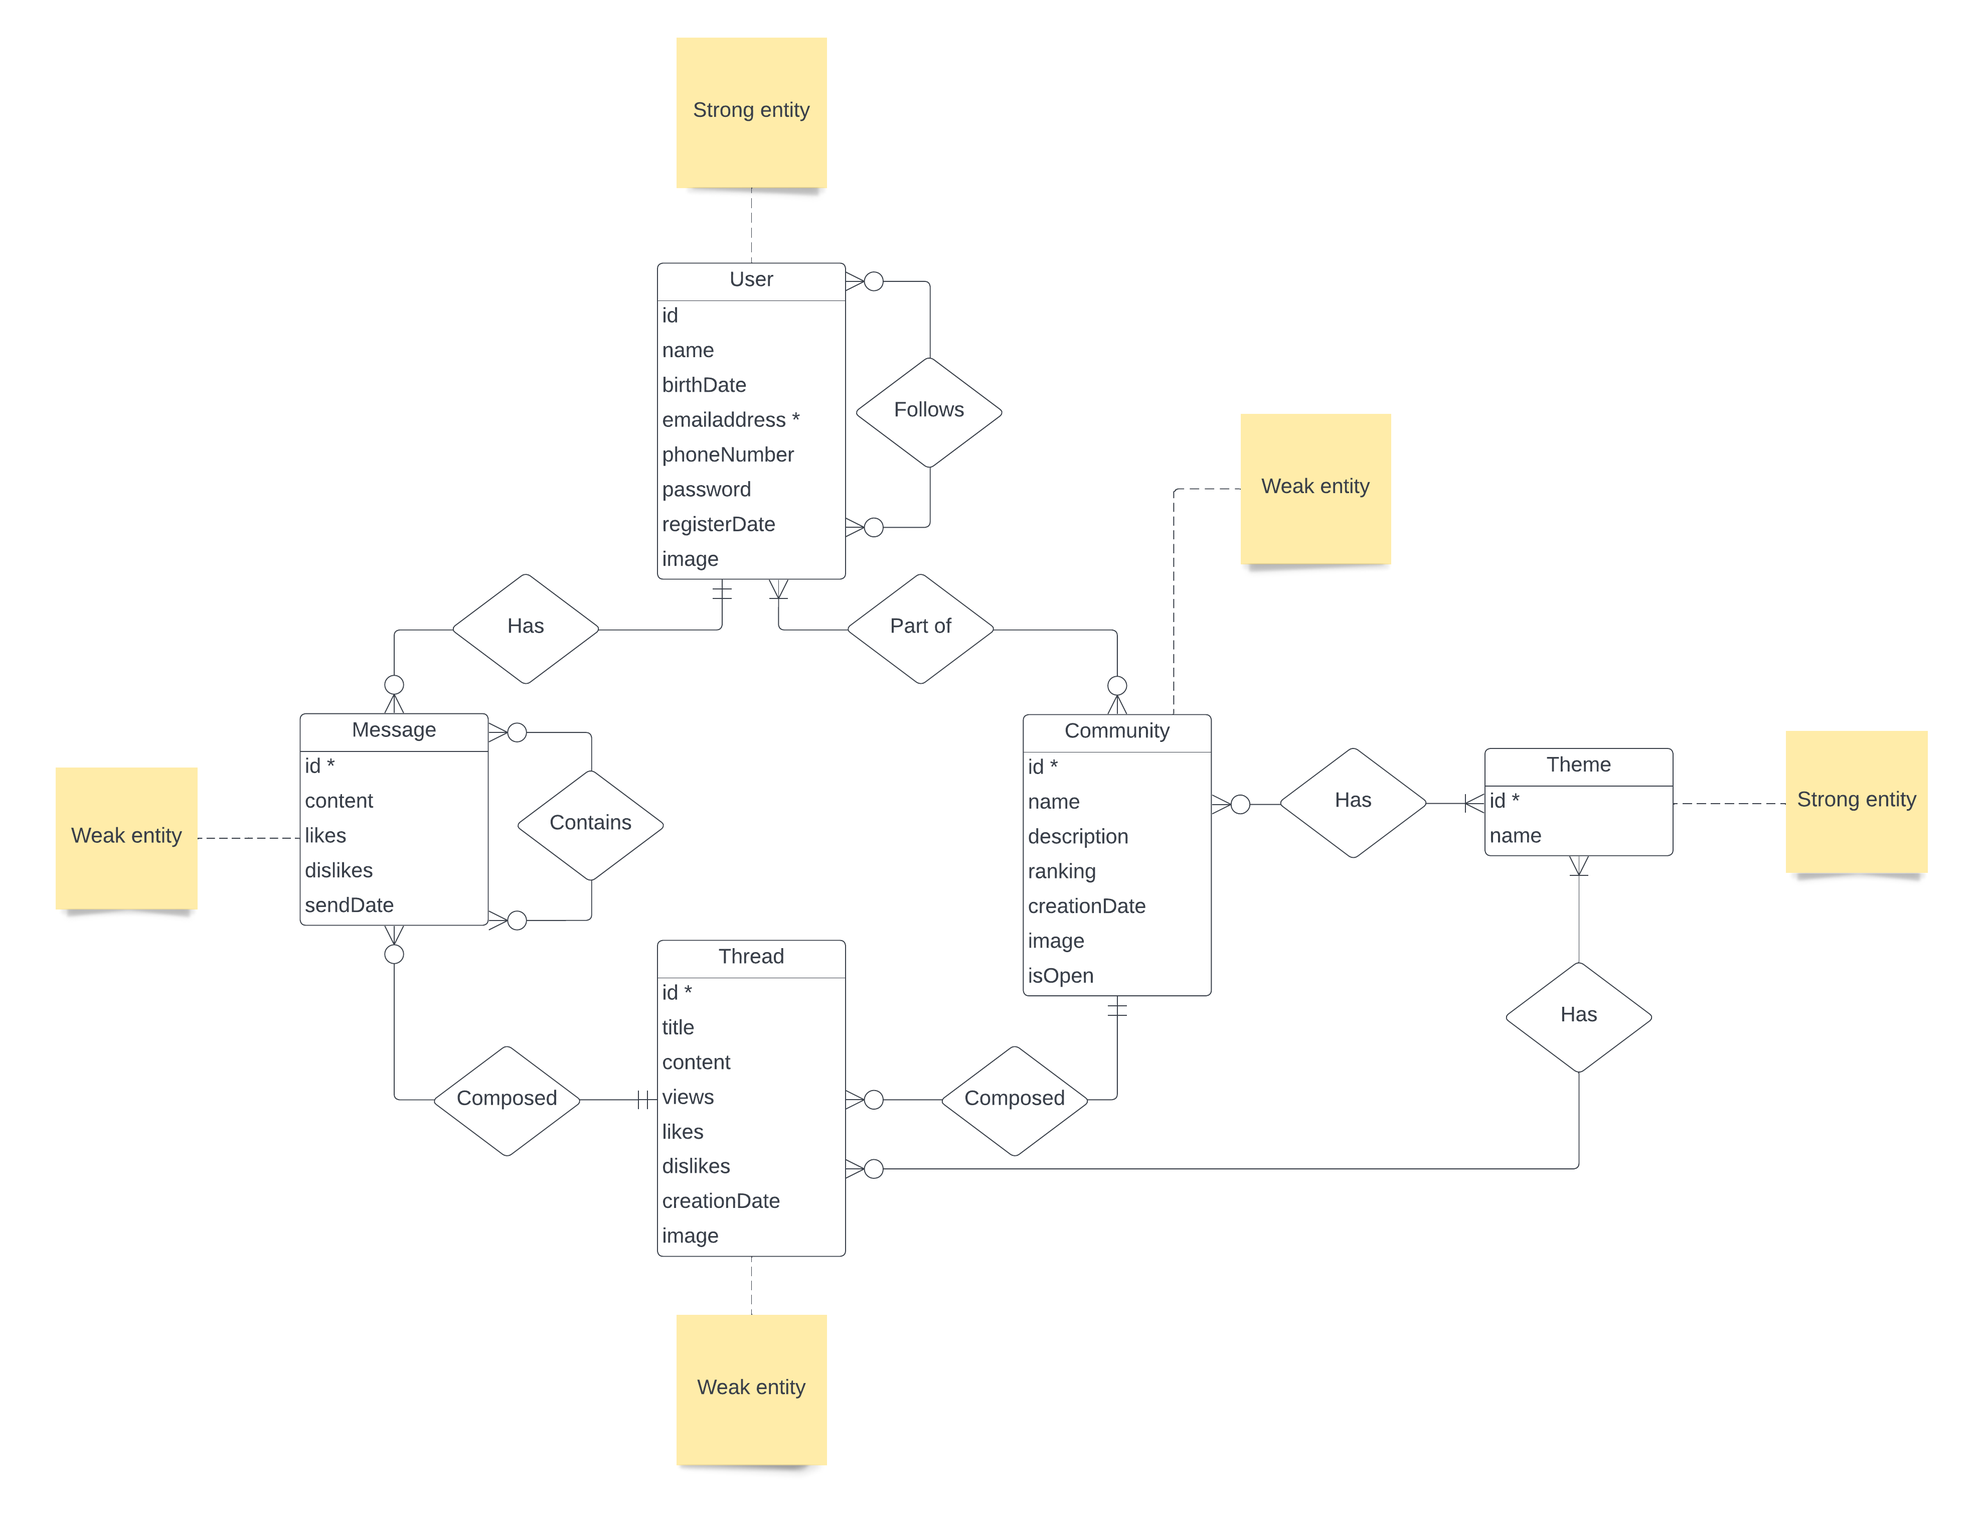
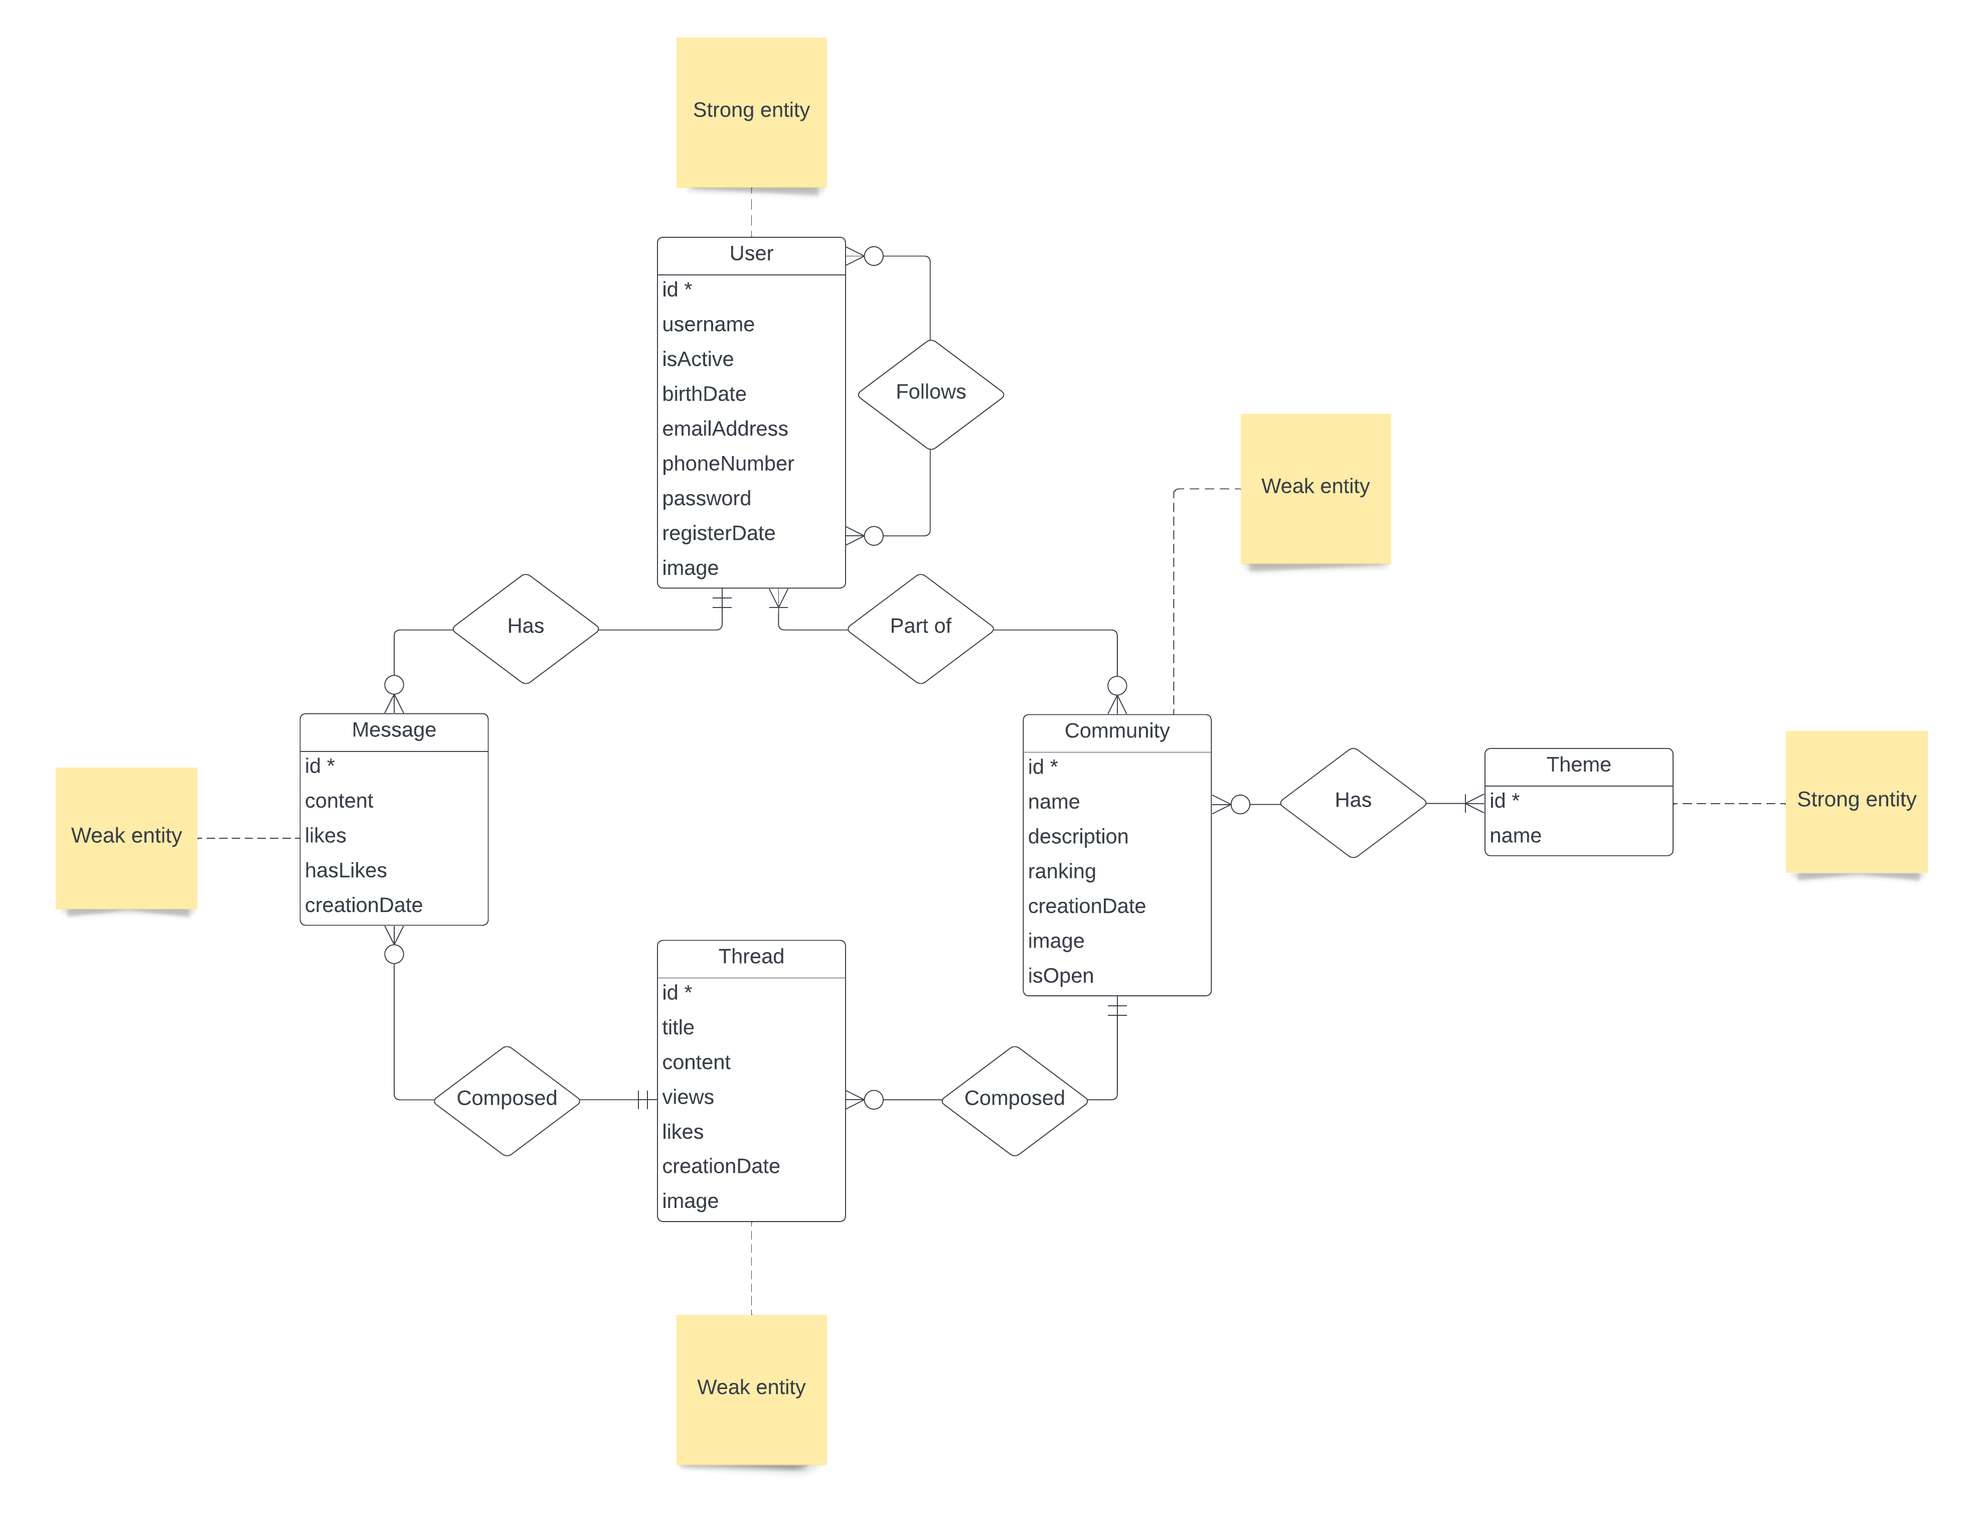
Updated about page info, fixed navbar, changed homepage and added more styling

diff --git a/apps/gessit-app/src/app/pages/about/about.component.html b/apps/gessit-app/src/app/pages/about/about.component.html
@@ -12,15 +12,15 @@
             <p>
                 De casus die ik heb gemaakt/gekozen is het maken van een forumapplicatie genaamd Gessit. De applicatie is
                 te vergelijken met bijvoorbeeld Reddit (vandaar de naam ;) ). Bezoekers kunnen namelijk binnen mijn site communiceren en discussiëren 
-                over allerlei verschillende soorten onderwerpen. Om deze communicatie gescheiden te houden en de app geordend te 
-                laten maak ik gebruik van zogenoemde "communities" die nu al in deze ontwikkelstage van de app te zien zijn 
-                en waarop al verschillende operaties op uitgevoerd kunnen worden. Gebruikers kunnen dus in de toekomst berichten 
-                plaatsen binnen deze "communities" die ook weer gemaakt kunnen worden door de gebruikers zelf om zo discussies 
+                over allerlei verschillende soorten onderwerpen wanneer zij zich registeren als gebruiker binnen mijn app. 
+                Om deze communicatie gescheiden te houden en de app geordend te 
+                laten maak ik gebruik van zogenoemde Communities. Gebruikers kunnen dus berichten 
+                plaatsen binnen deze Communities die ook weer gemaakt kunnen worden door de gebruikers zelf om zo discussies 
                 die over hetzelfde onderwerp gaan bij elkaar te houden, zodat de applicatie geordend blijft en het voor de 
-                gebruiker overzichtelijker word. Binnen deze "communities" kunnen ook weer "threads" aangemaakt worden om zo
-                een "community" nog verder op te delen en georganiseerd te houden. Binnen deze "threads" kunnen gebruikers in 
-                de toekomst berichten sturen en met elkaar communiceren. Op het "thread" object kunnen al verscheidene operaties
-                uitgevoerd worden binnen mijn app op dit moment. Met deze site hoop ik uiteindelijk het stellen van vragen en het 
+                gebruiker overzichtelijker word. Binnen deze Communities kunnen ook weer Threads aangemaakt worden om zo
+                een Community nog verder op te delen en georganiseerd te houden. Binnen deze Threads kunnen gebruikers 
+                berichten sturen en met elkaar communiceren. Op al deze verschillende entiteiten kunnen verscheidene operaties
+                uitgevoerd worden binnen mijn app. Met deze site hoop ik uiteindelijk het stellen van vragen en het 
                 starten van communicatie te bevorderen tussen mensen over de gehele wereld om hen zo dichter bij elkaar te brengen, 
                 zodat ze altijd hulp kunnen vragen en nieuwe connecties kunnen maken binnen mijn app.
 
@@ -29,57 +29,65 @@
             </p>
             <h5>Entiteitbeschrijving</h5>
             <p>
-                Één van de entiteiten die ik tot nu toe dus heb verwerkt is het zogenoemde "community" object. Dit is eigenlijk een soort
-                van groep waar gebruikers in de toekomst lid van kunnen worden als zij bijvoorbeeld geinteresseerd zijn in een
-                bepaald onderwerp waar dan die "community" de nadruk op legt en dat deze dus vol staat met discussies en vragen over
-                dat specifieke onderwerp waar een gebruiker nou juist zo geinteresseerd in is. Zo kunnen mensen makkelijk en snel meedoen
-                aan de communicatie online en nieuws ontvangen over onderwerpen wat hun ook echt interessant vinden. Door gebruik
-                te maken van "communities" blijven online gesprekken binnen mijn app ook goed gescheiden van elkaar op basis van
-                onderwerp, wat de overzichtelijkheid en bruikbaarheid van mijn app verbeterd.
-
-                <br>
-                <br>
-
-                Naast het "community" object heb ik ook nog een "thread" entiteit verwerkt binnen mijn applicatie. Een "thread" kan eigenlijk
-                gezien worden als een groep in een "community" waarin daadwerkelijk berichten gestuurd kunnen worden door ingelogde gebruikers.
-                Iedere gebruiker binnen een "community" kan een "thread" aanmaken en het wat inhoud geven zoals bijvoorbeeld een afbeelding of
-                een titel om onder andere een discussie te starten of een vraag te stellen aan de andere gebruikers binnen de "community". Gebruikers
-                kunnen dan in de toekomst dus binnen de aangemaakte "thread" berichten sturen als reactie op de inhoud van de "thread" om zo vragen
-                te beantwoorden of mee te doen aan discussies. Door een "community" op te delen in "threads" hou ik iedere community overzichtelijk
-                en zorg ik ervoor dat meerdere gebruikers bijvoorbeeld hun vragen kwijt kunnen in een "community", omdat er dus dankzij de "threads"
-                meerdere soort van tekstkanalen zijn waar gebruikers met elkaar kunnen chatten in de toekomst doormiddel van de "message" entiteit.
-                Deze entiteit word in de toekomst uiteraard gerealiseerd om dus de gebruikers daadwerkelijk de mogelijkheid te geven om met elkaar in
-                gesprek te gaan.
-
-                <br>
-                <br>
-
-                Hieronder geef ik de verschillende attributen die het "community" object en het "thread" object tot nu toe hebben (met een in-memory database)
-                en benoem ik de datatypes ervan en geef ik een korte beschrijving.
+                De entiteiten die ik heb gebruikt binnen mijn applicatie zijn de volgende: 
             </p>
 
-            <h6>Het "community" object:</h6>
             <ul>
-                <li>_id: string (de unieke identificator)</li>
-                <li>name: string (een naam)</li>
-                <li>description: string (een beschrijving)</li>
-                <li>image: string (de url)</li>
-                <li>creationDate: Date (wanneer hij gemaakt is)</li>
-                <li>isOpen: boolean (of hij publiek is)</li>
+                <li>User</li>
+                <li>Community</li>
+                <li>Theme</li>
+                <li>Thread</li>
+                <li>Message</li>
             </ul>
-            
-            <h6>Het "thread" object:</h6>
-            <ul>
-                <li>_id: string (de unieke identificator)</li>
-                <li>communityId: string (de unieke identificator van de gelinkte community)</li>
-                <li>title: string (de titel)</li>
-                <li>content: string (de inhoud)</li>
-                <li>views: number (hoe vaak hij bekeken is)</li>
-                <li>likes: number (hoe vaak hij "geliked" is)</li>
-                <li>dislikes: number (hoe vaak hij "gedisliked" is)</li>
-                <li>creationDate: Date (wanneer hij gemaakt is)</li>
-                <li>image: string (de url)</li>
-            </ul>
+
+            <p>
+                Hieronder beschrijf ik alle verschillende bovenstaande entiteiten en hoe zij verband houden met elkaar.
+
+                <br>
+                <br>
+
+                De User entiteit weerspiegeld de geregistreerde gebruiker. Doormiddel van de User entiteit
+                kunnen er nieuwe accounts gemaakt worden binnen de app en kan er authenticatie en authorizatie plaatsvinden.
+                Daarnaast zijn vrijwel alle andere entiteiten gekoppeld aan de User entiteit, waardoor deze entiteit dus 
+                echt de fundering is van mijn applicatie en dus het belangrijkste is.
+
+                <br>
+                <br>
+
+                De Community entiteit weerspiegelen de verschillende "groepen" die je aan kan maken als geregistreerde gebruiker 
+                binnen de applicatie. Deze entiteit bevat ook weer andere entiteiten, zoals de Message en Thread entiteiten. De 
+                Community entiteit zorgt ervoor dat deze andere entiteiten gegroepeerd kunnen worden en dus gesplitst kunnen worden 
+                op onder andere basis van het thema en het onderwerp, hier komt de Theme entiteit bij kijken. Ook zorgt de Community 
+                entiteit er voor dat de applicatie gestructureerd en overzichtelijk blijft, omdat dus alle gerelateerde discussies en 
+                gesprekken gegroepeerd zijn binnen Communities. Een Community kan gemaakt worden door een geregistreerde gebruiker, maar 
+                er kan ook aan deel worden genomen door een ingelogde gebruiker wanneer deze Community gemaakt is door een andere gebruiker.
+                Binnen een Community kunnen ook weer zogenoemde Thread entiteiten toegevoegd worden, wat eigenlijk een soort tekstkanaal is.
+
+                <br>
+                <br>
+
+                De Theme entiteit zorgt ervoor dat iedere Community entiteit over een bepaald thema kan beschikken, om zo deze entiteit meer 
+                een eigen "smaak" te geven. Gebruikers krijgen door het Theme entiteit nu namelijk een beter beeld van waar een bepaalde Community 
+                om draaid en wat de gespreksonderwerpen vooral gaan zijn, zodat zij zo een keuze kunnen maken of zij deel willen nemen aan een Community. 
+                De Theme entiteit zorgt er dus echt voor dat de Community entiteit meer een eigen doel gaat krijgen wat de gebruiker ook weer meer een reden 
+                geeft om meer dan één Community aan te maken, waardoor gebruikers dus geinteresseerd en actief blijven in mijn app.
+
+                <br>
+                <br>
+
+                De Thread entiteit zorgt ervoor dat gebruikers berichten kan sturen binnen een Community entiteit. De Thread entiteit is als 
+                het ware de "groep" binnen een Community waarin berichten gestuurd kunnen worden. De Thread beschikt over een titel en inhoud,
+                waarmee de gebruiker een bepaalde vraag kan stellen of een discussie kan starten. Andere gebruikers kunnen hier dan weer op reageren 
+                door zogenoemde Message entiteiten aan te maken binnen die Thread. De Thread is dus eigenlijk het soort van tekstkanaal binnen een Community waar
+                gebruikers berichten in aanmaken om zo hun mening te delen.
+
+                <br>
+                <br>
+
+                De Message entiteit zorgt ervoor dat gebruikers hun mening kunnen delen en vragen kunnen beantwoorden binnen een Thread. Message entiteiten 
+                zijn eigenlijk onderdeel van de fundatie van mijn app, omdat gebruikers doormiddel van deze Messages te maken dus kunnen communiceren met 
+                andere gebruikers om zo allerlei vragen te kunnen beantwoorden of discussies te starten wat uiteindelijk uiteraard het einddoel is van mijn site.
+            </p>
         </div>
         <div class="col-sm-6 col-md-4 col-lg-3">
             <div class="card">
@@ -120,19 +128,29 @@
             <p>User (de gebruiker zelf die berichten kan sturen, communities aan kan maken etc.)</p>
             <ul>
                 <li>id: ObjectId (“autogenerated” door mongodb)</li>
-                <li>name: String</li>
+                <li>joinedCommunities: ObjectId Array (verwijzingen naar Community entiteit)</li>
+                <li>createdCommunities: ObjectId Array (verwijzingen naar Community entiteit)</li>
+                <li>followers: ObjectId Array (verwijzingen naar User entiteit)</li>
+                <li>following: ObjectId Array (verwijzingen naar User entiteit)</li>
+                <li>roles: Role Array (enum: user/admin)</li>
+                <li>username: String</li>
                 <li>birthDate: Date</li>
-                <li>emailaddress: String</li>
-                <li>phonenumber: String</li>
+                <li>emailAddress: String</li>
+                <li>phoneNumber: String</li>
                 <li>password: String</li>
+                <li>isActive: Boolean</li>
                 <li>registerDate: Date</li>
                 <li>image: String</li>
             </ul>
         </div>
         <div class="col-sm-12 col-md-4">
-            <p>Community (de "groep" waarin "threads" worden aangemaakt waarin berichten worden verstuurd)</p>
+            <p>Community (de "groep" waarin Threads worden aangemaakt waarin berichten worden verstuurd)</p>
             <ul>
                 <li>id: ObjectId (“autogenerated” door mongodb)</li>
+                <li>owner: User (User entiteit)</li>
+                <li>members: ObjectId Array (verwijzingen naar User entiteiten)</li>
+                <li>threads: Thread Array (Thread entiteiten)</li>
+                <li>themes: Theme Array (Theme entiteiten)</li>
                 <li>name: String</li>
                 <li>description: String</li>
                 <li>ranking: Number</li>
@@ -142,21 +160,23 @@
             </ul>
         </div>
         <div class="col-sm-12 col-md-4">
-            <p>Theme (het thema van een "thread" of "community")</p>
+            <p>Theme (het thema van een Community)</p>
             <ul>
                 <li>id: ObjectId (“autogenerated” door mongodb)</li>
                 <li>name: String</li>
             </ul>
         </div>
         <div class="col-sm-12 col-md-4">
-            <p>Thread (een "chat" binnen een "community" waar gebruikers berichten in kunnen sturen)</p>
+            <p>Thread (een "chat" binnen een Community waar gebruikers berichten in kunnen sturen)</p>
             <ul>
                 <li>id: ObjectId (“autogenerated” door mongodb)</li>
+                <li>creator: ObjectId (verwijzing naar User entiteit)</li>
+                <li>messages: Message Array (Message entiteiten)</li>
+                <li>likes: ObjectId Array (verwijzingen naar User entiteit)</li>
                 <li>title: String</li>
                 <li>content: String</li>
                 <li>views: Number</li>
                 <li>likes: Number</li>
-                <li>dislikes: Number</li>
                 <li>creationDate: Date</li>
                 <li>image: String</li>
             </ul>
@@ -165,10 +185,11 @@
             <p>Message (een bericht wat een gebruiker maakt en verstuurd)</p>
             <ul>
                 <li>id: ObjectId (“autogenerated” door mongodb)</li>
+                <li>creator: ObjectId (verwijzing naar User entiteit)</li>
+                <li>likes: ObjectId Array (verwijzingen naar User entiteit)</li>
                 <li>content: String</li>
-                <li>likes: Number</li>
-                <li>dislikes: Number</li>
-                <li>sendDate: Date</li>
+                <li>creationDate: Date</li>
+                <li>hasLikes: Boolean</li>
             </ul>
         </div>
     </div>
@@ -180,7 +201,8 @@
             <h3>Userstories</h3>
             <p>
                 Hieronder beschrijf ik al mijn user stories in de vorm van een lijst om een duidelijk overzicht te bieden
-                van alle functionaliteiten die mijn applicatie moet gaan bevatten.
+                van alle functionaliteiten die mijn applicatie zou kunnen gaan bevatten. Uiteindelijk heb ik deze niet 
+                allemaal kunnen realiseren vanwege een gebrek aan tijd.
             </p>
     
             <table class="table table-bordered">

diff --git a/apps/gessit-app/src/app/pages/homepage/homepage.component.html b/apps/gessit-app/src/app/pages/homepage/homepage.component.html
@@ -1,3 +1,8 @@
 <div class="component">
-    <h1>This is the gessit homepage!</h1>
+    <div class="card">
+        <div class="card-body">
+            <h1>Welcome to the Gessit homepage!</h1>
+            <p>A forum application to talk about and discuss all kinds of topics online with other people.</p>
+        </div>
+    </div>
 </div>

diff --git a/apps/gessit-app/src/app/shared/nav/nav.component.html b/apps/gessit-app/src/app/shared/nav/nav.component.html
@@ -1,4 +1,4 @@
-<nav class="navbar navbar-expand-lg p-3" style="background-color: #dddddd">
+<nav class="navbar navbar-expand-lg p-3 fixed-top" style="background-color: #dddddd;">
   <div class="container-fluid">
     <a class="navbar-brand" [routerLink]="'/'">Gessit</a>
     <button

diff --git a/apps/gessit-app/src/styles.css b/apps/gessit-app/src/styles.css
@@ -36,7 +36,8 @@
 
 body {
     background-color: #EFEFEF !important;
-    padding-bottom: 30px;
+    padding-bottom: 70px;
+    padding-top: 70px;
 }
 
 nav {
